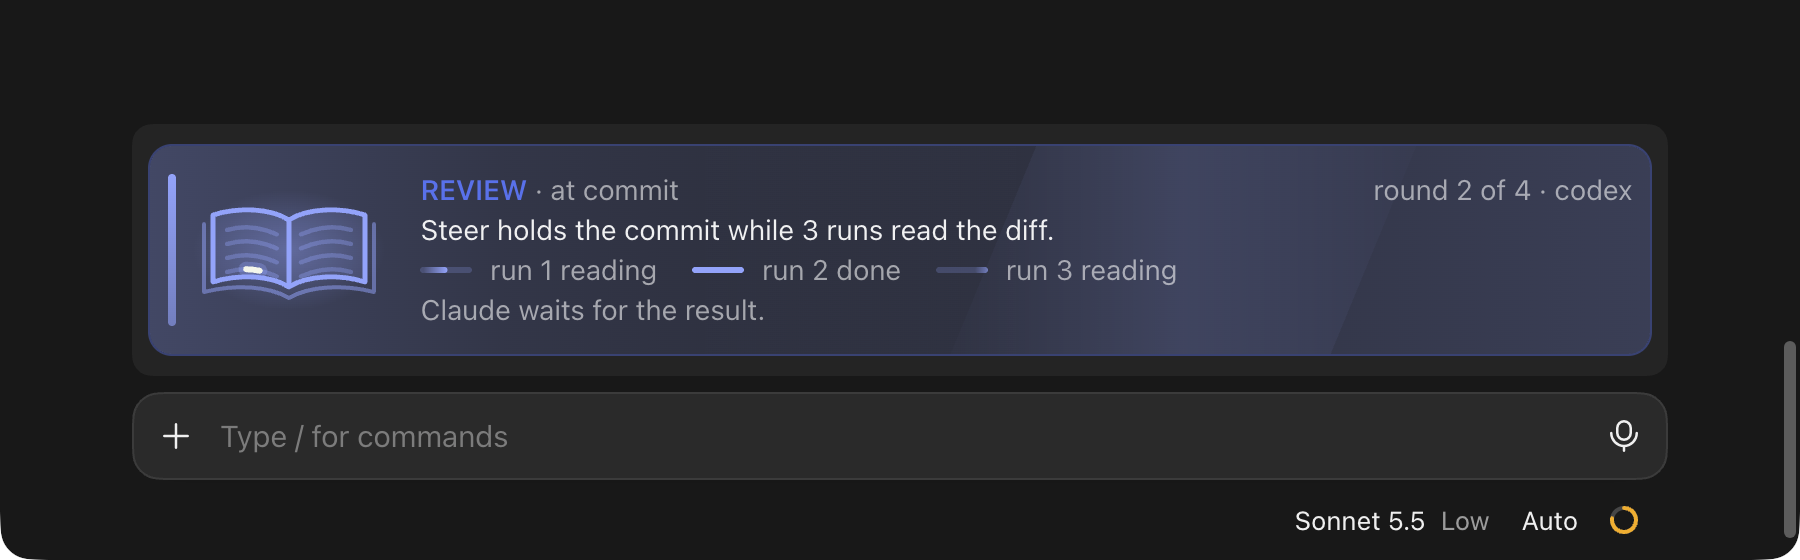
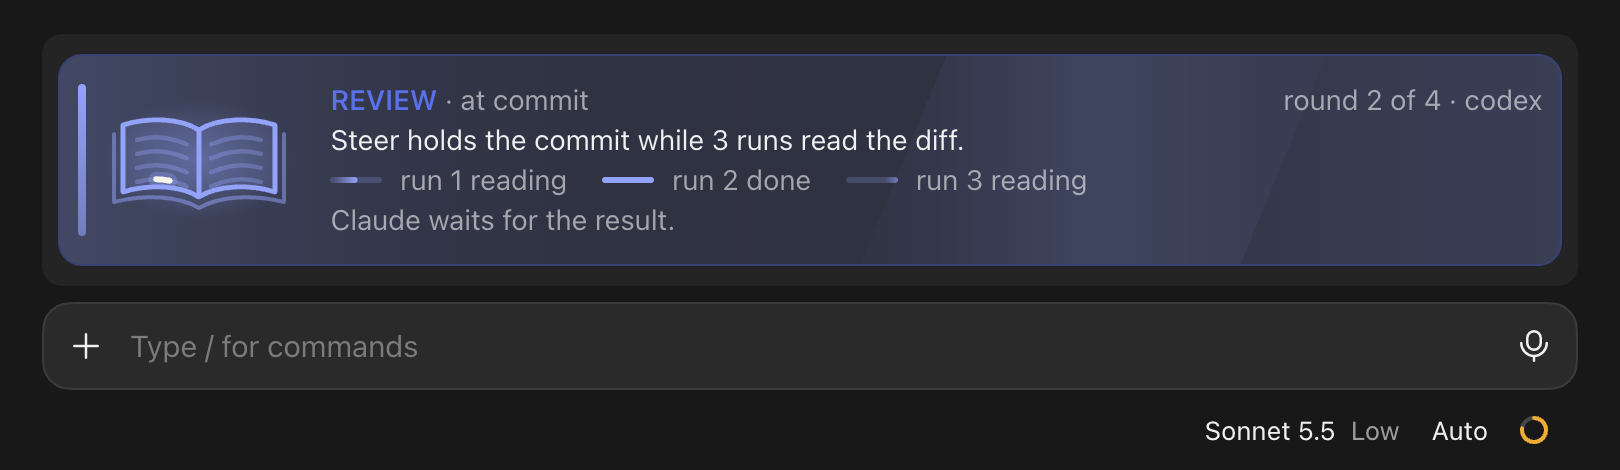
readme: review band screenshots and the Claude Code-only features
The component list names /auto-steer and groups the review band and the
status line as Claude Code-only. A terminal screenshot of the review band
joins the Desktop one, and the demo GIF is replaced.

diff --git a/README.md b/README.md
@@ -26,9 +26,11 @@ codex plugin add steer@steer-marketplace
 
 The plugin consists of several components:
 * `steer` CLI executable
-* `/steer`, `/steer-report` and `/steer-setup` skills
-* Custom status line for Claude Code (not currently possible in Codex)
+* `/steer`, `/steer-report`, `/auto-steer` and `/steer-setup` skills
 * A session-start reminder hook when you should run `/steer-report`
+* Claude Code-exclusive features (not currently possible in Codex):
+  * Graphical Review Band (see below), drawn by Claude Code Mod
+  * Custom Statusline for Claude Code
 
 The Codex hook trust model is different from Claude Code. It requires you to approve new hooks. Approve the hooks during initial install, and the first new guard in each scope. Later guards shouldn't require new approval. Note you may need to restart Codex if you don't get the hook approval prompt.
 
@@ -42,7 +44,7 @@ After the installation step above, please run the `/steer-setup` skill. It helps
 
 Reviews can run through 3 different CLIs: `claude`, `codex`, or `agy` (Google Antigravity). They can also be run through any OpenAI-compatible chat-completions endpoint, such as OpenRouter, with an API key that you store with `steer reviewer key set` in your own terminal. The reviewer can be different from the agent that writes your code. Actually, in early testing this is a preferable setup (OpenAI reviewing Anthropic models, for example). By default, three reviewers run in parallel. Keep in mind that reviews do take time and they will use your CLI usage quota or API credits. If latency is too high, it's recommended to use a smaller model or use less reasoning effort. Good results are definitely possible using smaller models with low reasoning.
 
-What reviewer model should you choose? As of November 2026, two good options with a mix of low-cost, speed and intelligence are *Sonnet 5.5 Low*, or *GPT-6.1-Terra Low*.
+What reviewer model should you choose? As of November 2026, two good options with a mix of low-cost, speed and intelligence are **Sonnet 5.5 Low**, or **GPT-6.1-Terra Low**.
 
 Due to the current state of `agy`, it's not possible to block tool usage with command-line flags, nor is it possible to have ephemeral runs that do not create conversation history. With `agy`, your own `agy` permission rules stored in CLI configuration are the reviewer's only boundary, and each review stays in your `agy` conversation history.
 
@@ -56,10 +58,13 @@ If you use both Codex and Claude Code, run `/steer-setup` in both CLI agents. It
 
 Nothing changes when committing repo changes. Once your agent makes a commit, it will be automatically reviewed and concerns raised on findings. Your CLI agent will check each finding against the code, fix what holds up, and send back a report on what it accepted and what it rejected. Steer will continue reviewing the commits until no accepted - non-nitpick - findings remain, or until 4 reviews in a row have blocked the commit. Change that number with `steer config set reviewer.rounds <1-10>`. 4 is the default because initial testing shows diminishing returns after this amount.
 
-*New in 0.4.0*: Graphical Review Band. Using Claude Code Mods, Steer now displays a uniquely-styled review band on both terminal and Desktop. This band shows the status of the commit review, as well as a preview of its findings.
+**New in 0.4.0**: *Graphical Review Band*. Using Claude Code Mods, Steer now displays a uniquely-styled review band on both terminal and Desktop. This band shows the status of the commit review, as well as a preview of its findings.
 
 <p align="center">
   <img src="docs/review-band-desktop.png" width="900" alt="Steer's review band in the Claude Code Desktop app: round 2 of 4, Steer holds the commit while 3 runs read the diff">
+</p>
+<p align="center">
+  <img src="docs/review-band-terminal.png" width="900" alt="Steer's review band in the Claude Code Terminal app: round 2 of 4, Steer holds the commit while 3 runs read the diff">
 </p>
 
 Commits where every changed file is prose (`.md`, `.txt` and similar), or binary are skipped. `CLAUDE.md` and `AGENTS.md` are exceptions to the prose rule.
@@ -84,7 +89,7 @@ steer status        # whether your Steer installation is healthy, and steps to t
 ```
 
 ### Run `/auto-steer`
-*Experimental New Feature*: `/auto-steer` runs the same report as `/steer-report`. But instead of proposing new fixes, or changes to your existing fixes - `/auto-steer` implements all the changes autonomously. You will be given a summary report of all actions taken at the end of the run. If there are any further actions required, you will be notified at that point. `/auto-steer` doesn't ever commit files without your consent.
+**Experimental New Feature**: `/auto-steer` runs the same report as `/steer-report`. But instead of proposing new fixes, or changes to your existing fixes - `/auto-steer` implements all the changes autonomously. You will be given a summary report of all actions taken at the end of the run. If there are any further actions required, you will be notified at that point. `/auto-steer` doesn't ever commit files without your consent.
 
 The intention of `/auto-steer` is similar to auto-permissions mode in agent CLIs -- it removes the friction of decision-making from the user unless completely necessary. `/auto-steer` is completely optional, so if you want to be involved in every decision continue to use `/steer-report` instead.
 
